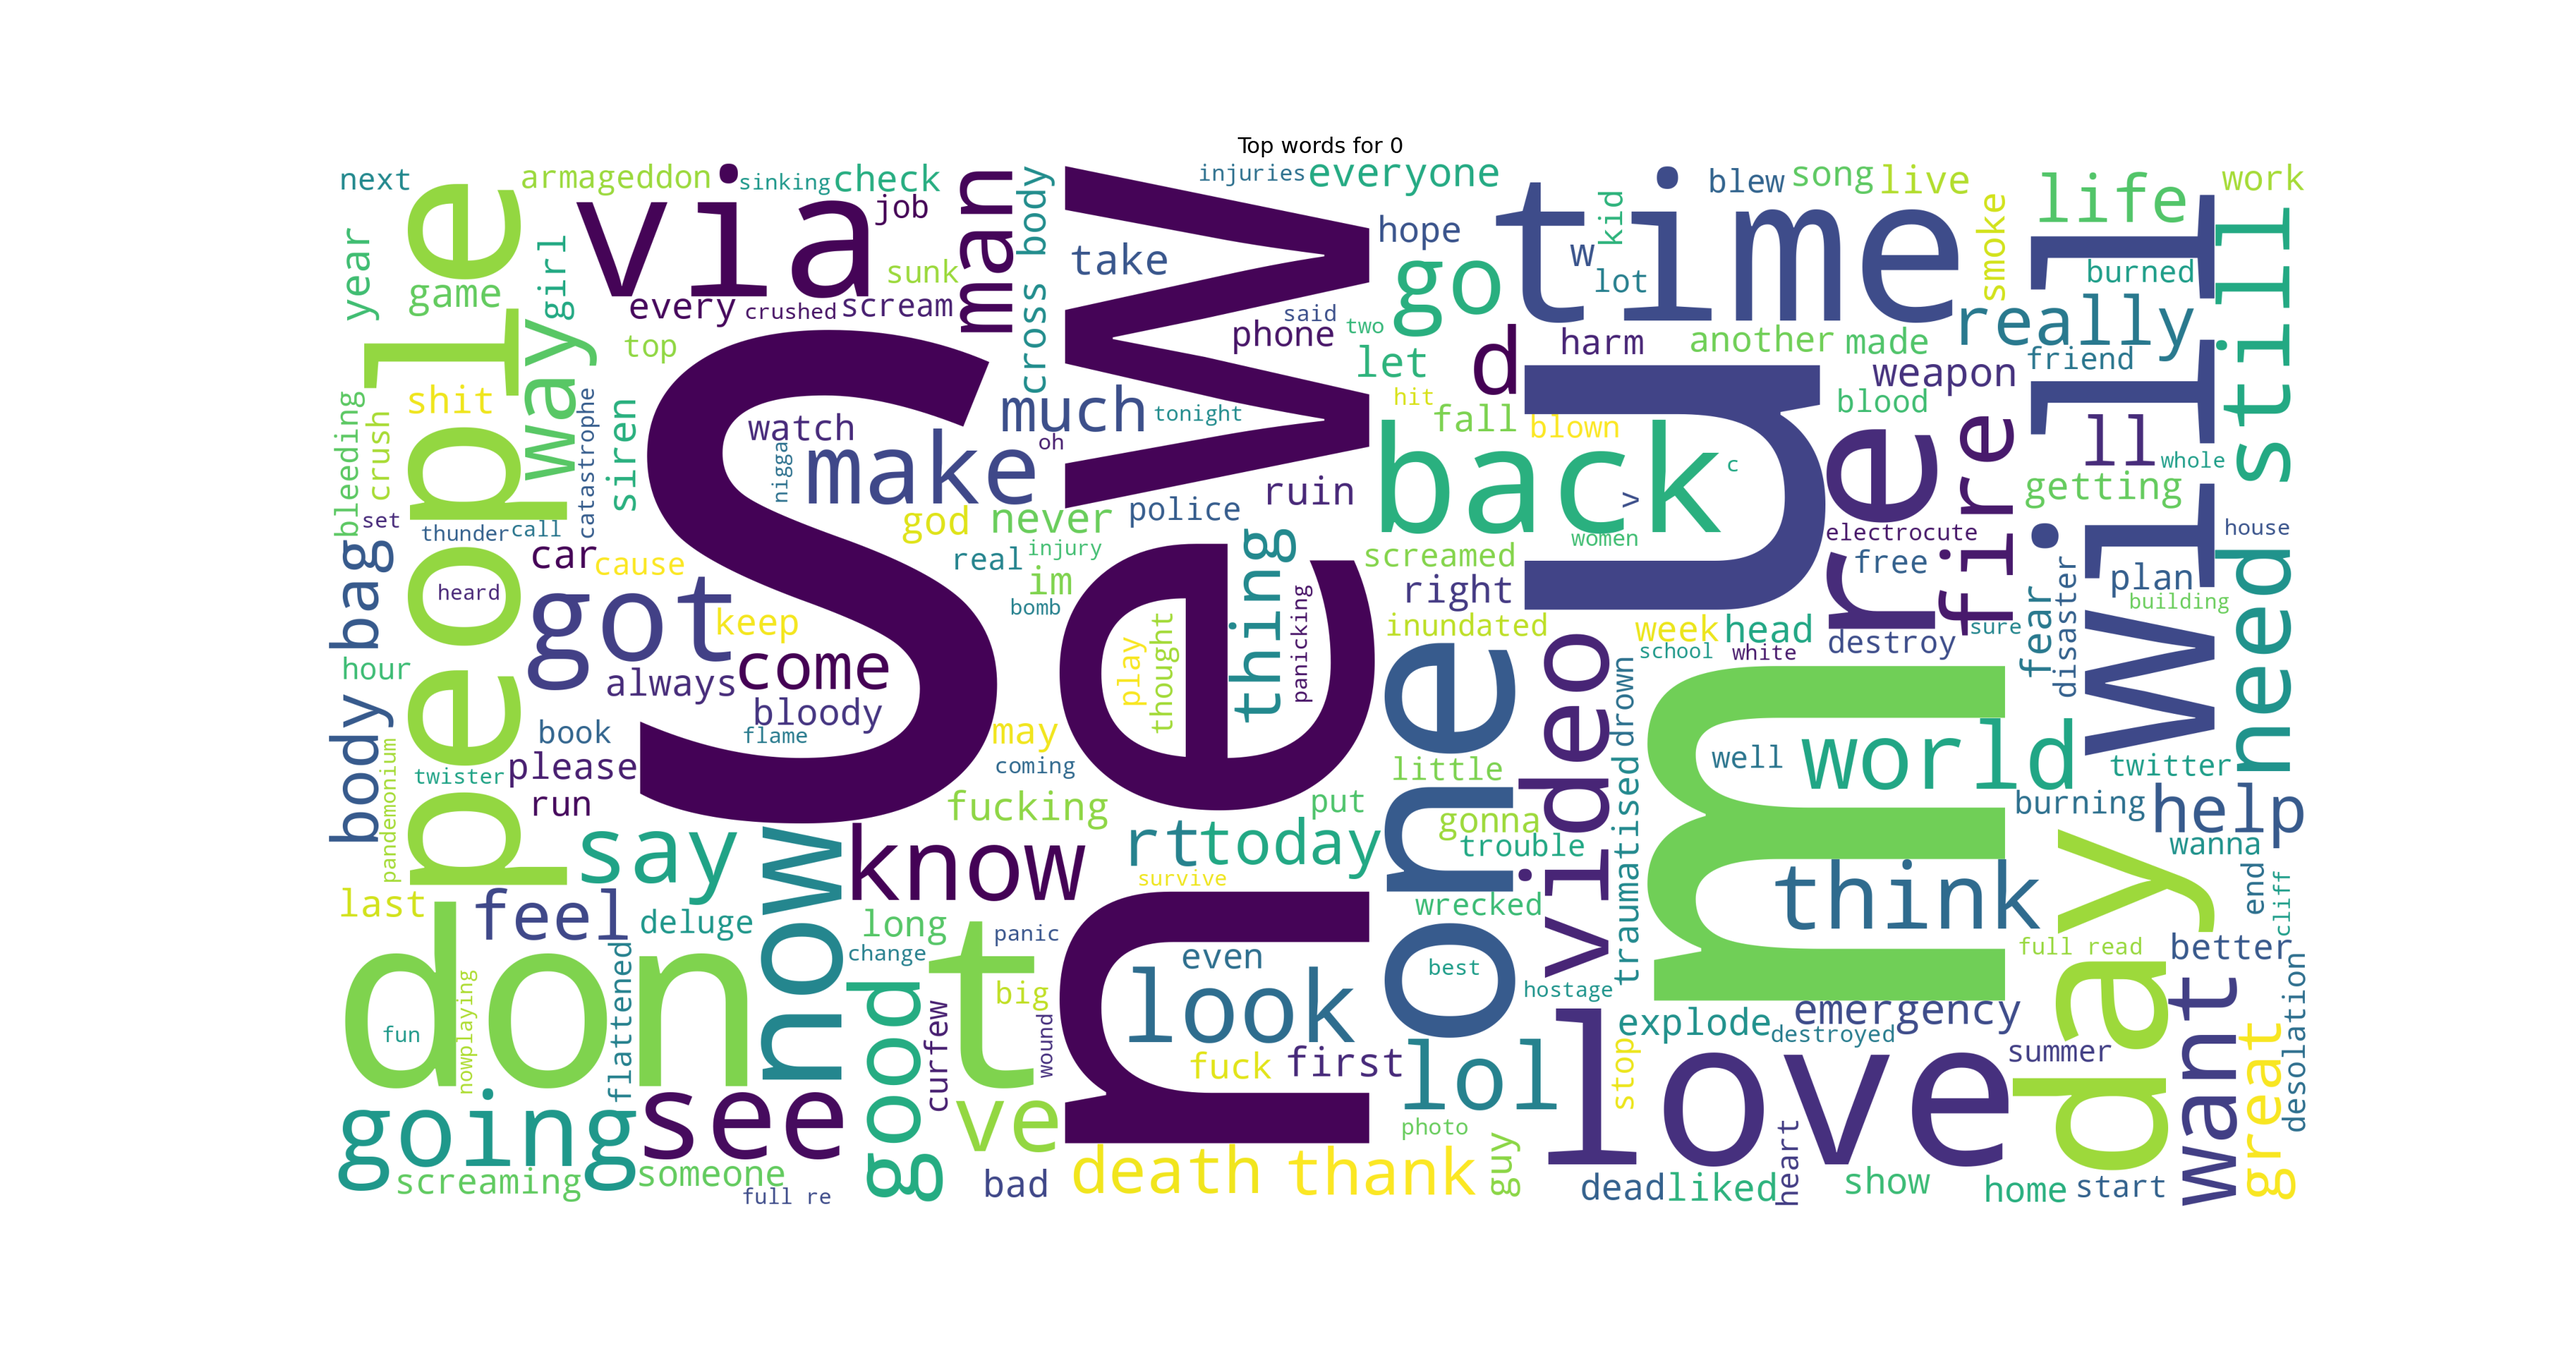
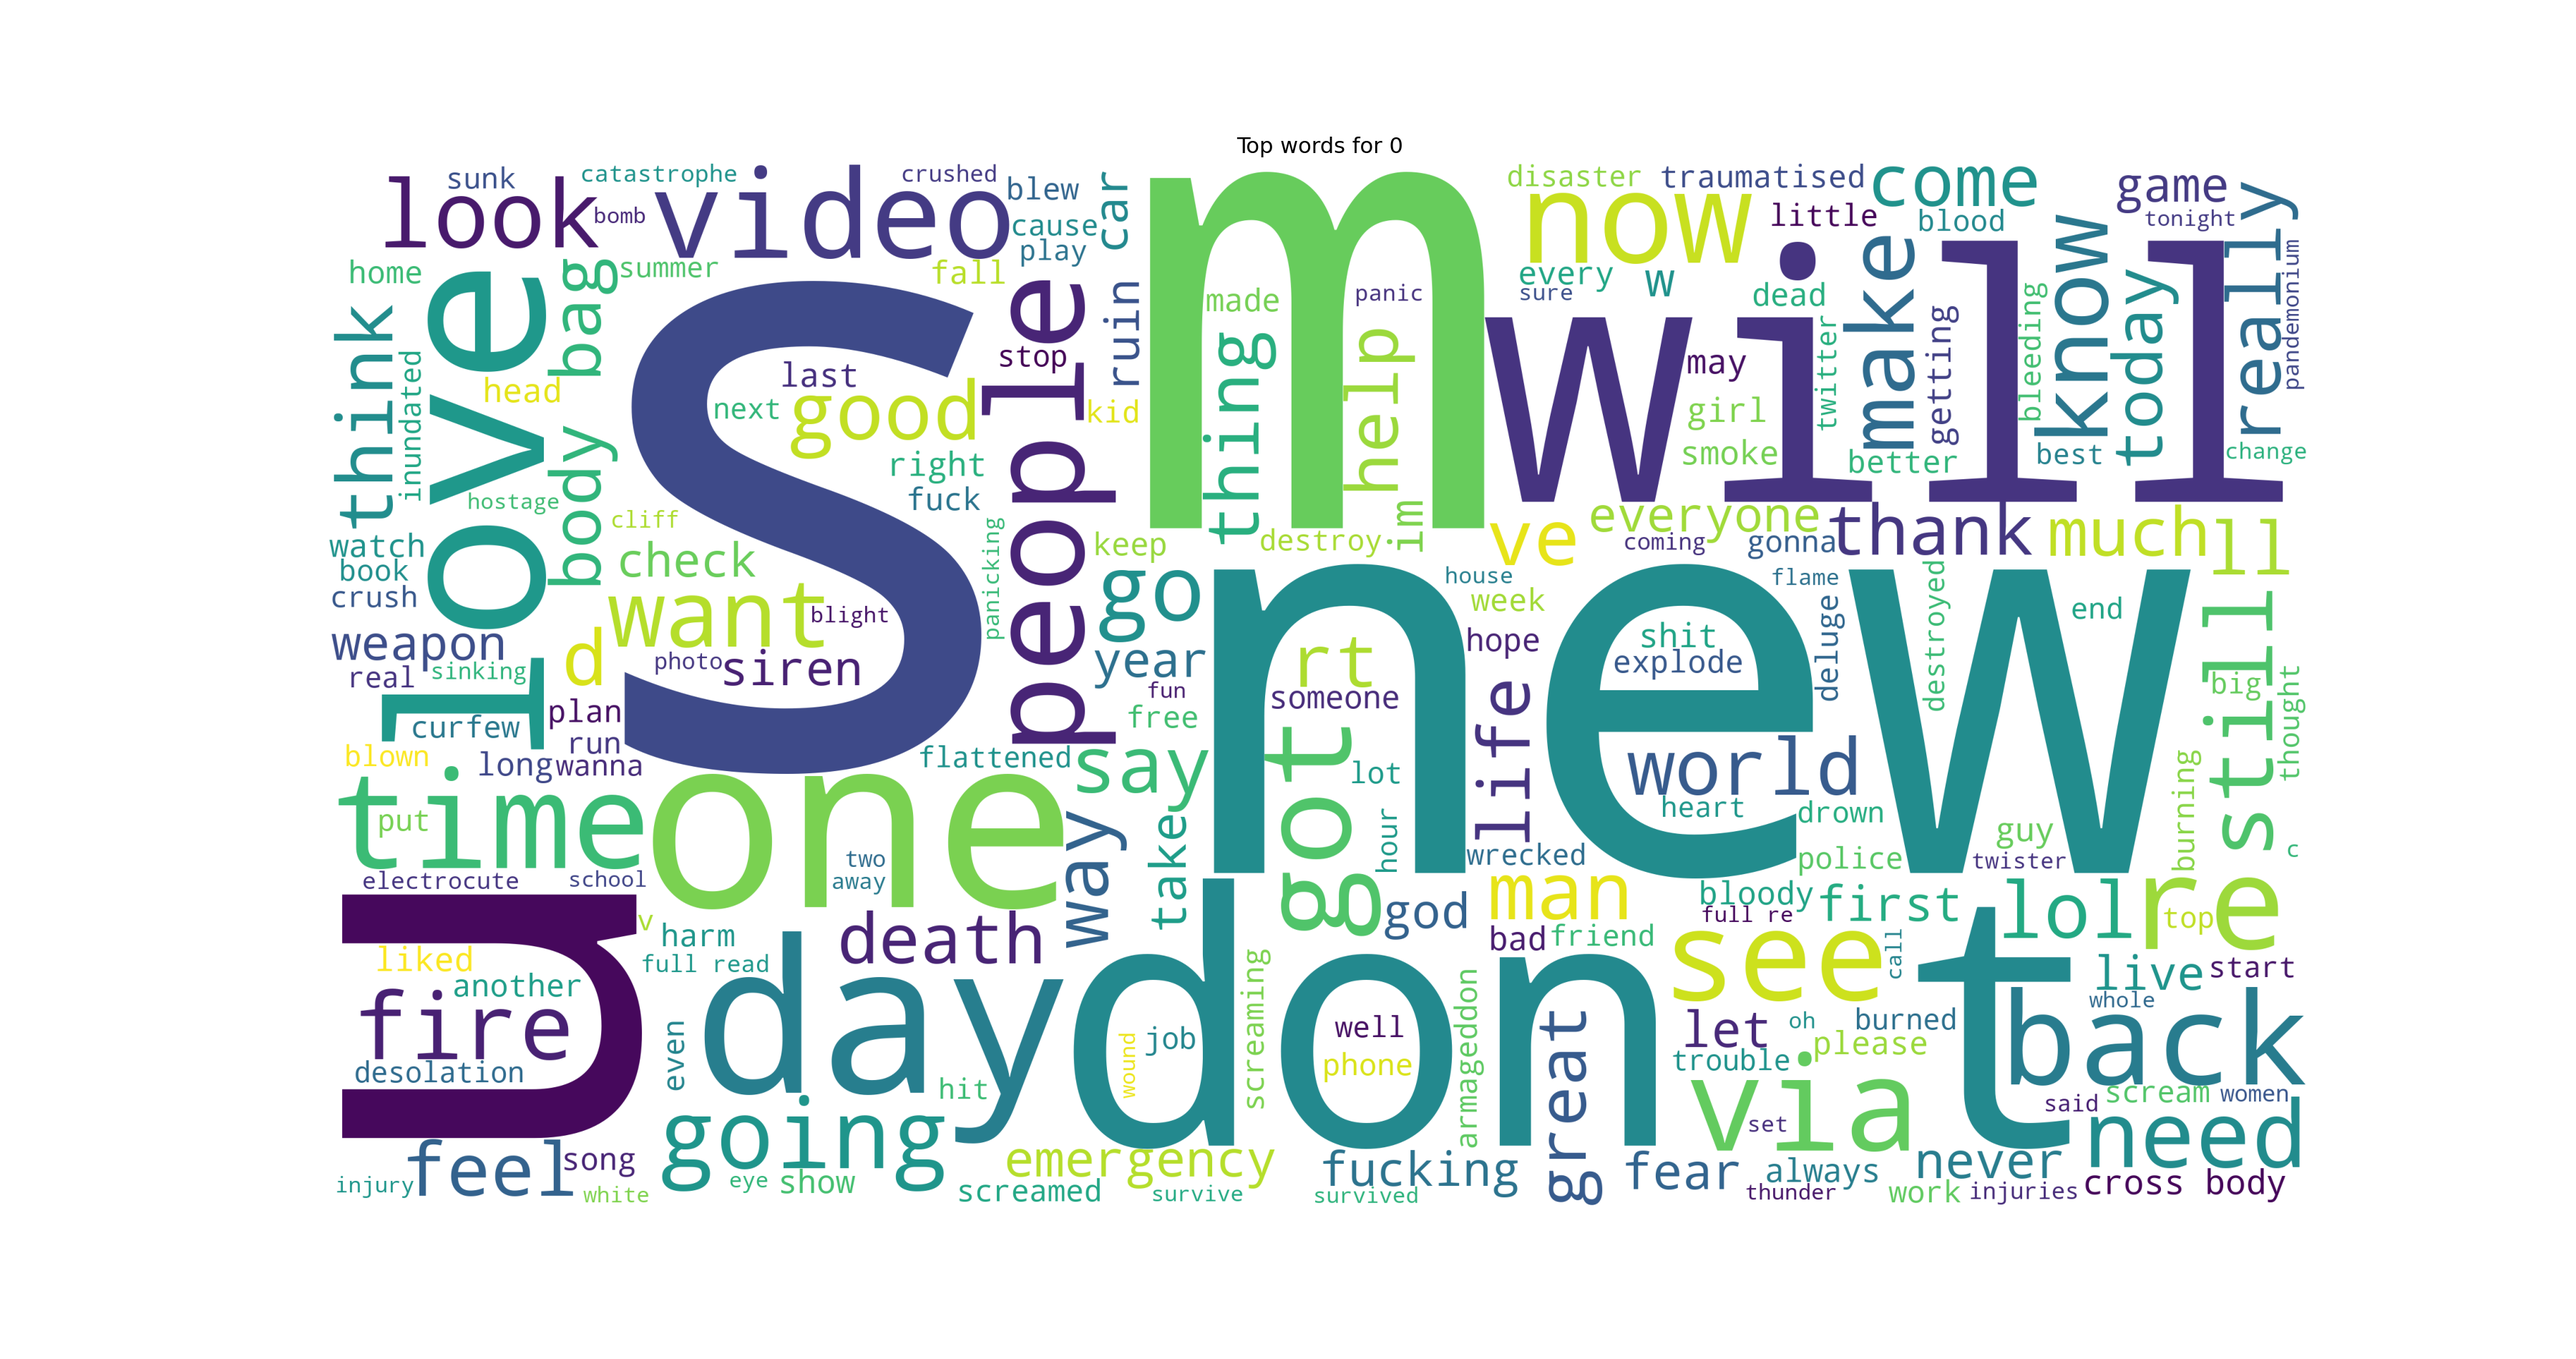
final

diff --git a/config.py b/config.py
@@ -17,21 +17,21 @@ class NetworkType(Enum):
 
 DEVICE = 'cuda' if torch.cuda.is_available() else 'cpu'
 CHECKPOINTS_FOLDER = 'checkpoints'
-CHECKPOINT_NAME = 'checkpoint_news_lstm_penn.pth'
-LOSS_PLOT_NAME = 'news_lstm_penn'
-CM_NAME = 'news_lstm_penn_cm'
-CM_LABELS = ['World', 'Sports', 'Business', 'Technology']
+CHECKPOINT_NAME = 'checkpoint_sms_lstm.pth'
+LOSS_PLOT_NAME = 'sms_lstm'
+CM_NAME = 'sms_lstm_cm'
+CM_LABELS = ['Spam', 'Ham']
 
-TASK_TYPE = TaskType.NEWS
-NETWORK_TYPE = NetworkType.LSTM_PENN
-IS_MULTICLASS = True
-TRAIN_DATA_RATIO = 0.92
-BATCH_SIZE = 1
+TASK_TYPE = TaskType.SMS
+NETWORK_TYPE = NetworkType.LSTM
+IS_MULTICLASS = False
+TRAIN_DATA_RATIO = 0.8
+BATCH_SIZE = 32
 HIDDEN_STATE_SIZE = 256
 EMBEDDING_VECTOR_SIZE = 100
 NUM_RECURRENT_LAYERS = 1
-OUTPUT_SIZE = 4
-VALIDATE_EVERY = 10000
+OUTPUT_SIZE = 1
+VALIDATE_EVERY = 20
 CLIP_VALUE = 0.1
 
 EPOCHS = 3

diff --git a/preprocessing/utils.py b/preprocessing/utils.py
@@ -94,17 +94,3 @@ def clean_news_data(text: str) -> str:
 
     table = str.maketrans('', '', string.punctuation)
     return text.translate(table)
-
-# TODO: spelling correction
-# from spellchecker import SpellChecker
-#
-# spell = SpellChecker()
-# def correct_spellings(text):
-#     corrected_text = []
-#     misspelled_words = spell.unknown(text.split())
-#     for word in text.split():
-#         if word in misspelled_words:
-#             corrected_text.append(spell.correction(word))
-#         else:
-#             corrected_text.append(word)
-#     return " ".join(corrected_text)
